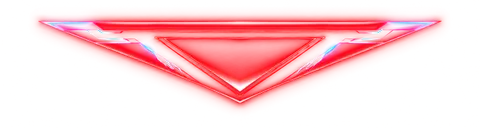
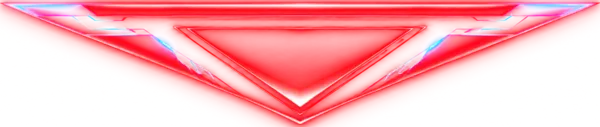
Configuración: triángulos pegados encima y debajo del recuadro del número (forma de hexágono)
Claude-Session: https://claude.ai/code/session_01HLPxK9qZeEMjrG2vSjnaLY

diff --git a/src/styles/screens.css b/src/styles/screens.css
@@ -1832,39 +1832,30 @@
 }
 
 /* ---------- Configuración: tarjetas de goles y tiempo ---------- */
-/* Ocupan todo el alto libre. ▲ arriba, número en medio (toca para activar/desactivar) y ▼ abajo.
-   La tarjeta activa se resalta con borde y brillo; la inactiva queda apagada. */
+/* Cada columna: triángulo ▲ a ras del borde superior del recuadro, recuadro con el número
+   (tocar = activar/desactivar) y triángulo ▼ a ras del borde inferior. La activa brilla; la otra se apaga. */
 .setup-conditions {
   flex: 1;
   min-height: 0;
+  column-gap: 28px;
+  padding: 0 12px;
 }
-.cond-card {
+.cond {
   display: flex;
   flex-direction: column;
-  align-items: stretch;
   min-height: 0;
-  padding: 8px 12px 10px;
-  gap: 4px;
-  opacity: 0.55;
-  filter: saturate(0.4);
-  transition: opacity 0.2s ease, filter 0.2s ease, border-color 0.2s ease, box-shadow 0.2s ease;
+  opacity: 0.45;
+  filter: saturate(0.35);
+  transition: opacity 0.2s ease, filter 0.2s ease;
 }
-.cond-card.on {
+.cond.on {
   opacity: 1;
   filter: none;
-  border: 2px solid var(--accent);
-  background: linear-gradient(180deg, rgba(47, 184, 236, 0.16), var(--card) 60%);
-  box-shadow: 0 0 24px rgba(47, 184, 236, 0.45), inset 0 0 22px rgba(47, 184, 236, 0.12);
-}
-.cond-title {
-  text-align: center;
-}
-.cond-card.on .cond-title {
-  color: var(--accent);
 }
 .cond-btn {
-  flex: 1;
-  min-height: 52px;
+  position: relative;
+  flex: 0 0 auto;
+  width: 100%;
   border: 0;
   background: transparent;
   padding: 0;
@@ -1873,28 +1864,42 @@
   font-size: 40px;
   font-weight: 800;
 }
+/* Alto según la proporción de la imagen más alta de cada pareja (reposo/pulsado). */
+.cond-btn.up {
+  aspect-ratio: 600 / 146;
+}
+.cond-btn.down {
+  aspect-ratio: 600 / 139;
+}
 .cond-btn:disabled {
   cursor: default;
 }
-.cond-card.on .cond-btn:disabled {
+.cond.on .cond-btn:disabled {
   opacity: 0.3;
 }
 .cond-btn .neon-sign {
-  position: relative;
-  display: block;
-  width: 100%;
-  height: 100%;
+  position: absolute;
+  inset: 0;
 }
 .cond-btn .neon-sign img {
   position: absolute;
-  left: 50%;
-  top: 50%;
-  /* Triángulos alargados: llenan el alto del botón sin pasar del ancho. */
-  height: 110%;
-  width: 92%;
-  object-fit: contain;
-  transform: translate(-50%, -50%);
+  left: 0;
+  width: 100%;
+  height: auto;
   pointer-events: none;
+}
+/* El lado plano de cada triángulo toca el recuadro. */
+.cond-btn.up .neon-sign img {
+  bottom: 0;
+}
+.cond-btn.down .neon-sign img {
+  top: 0;
+}
+.cond.on .cond-btn.up .neon-sign img {
+  filter: drop-shadow(0 0 8px rgba(61, 220, 151, 0.55));
+}
+.cond.on .cond-btn.down .neon-sign img {
+  filter: drop-shadow(0 0 8px rgba(255, 90, 110, 0.55));
 }
 .cond-btn .neon-sign .on {
   opacity: 0;
@@ -1904,35 +1909,44 @@
 }
 .cond-btn:not(:disabled):active .neon-sign .on {
   opacity: 1;
-  transform: translate(-50%, -50%) scale(1.06);
 }
-/* Número grande: toda la zona es el botón de activar/desactivar. */
-.cond-value {
-  flex: 1.6;
+.cond-box {
+  flex: 1;
+  min-height: 0;
   display: flex;
+  flex-direction: column;
   align-items: center;
   justify-content: center;
-  border: 0;
-  background: transparent;
+  gap: 2px;
+  border: 2px solid var(--line);
+  border-radius: 4px;
+  background: var(--card);
   cursor: pointer;
-  padding: 0;
-  min-height: 0;
+  padding: 4px 0;
 }
-.cond-value .num {
-  font-size: 118px;
+.cond.on .cond-box {
+  border-color: var(--accent);
+  background: linear-gradient(180deg, rgba(47, 184, 236, 0.18), var(--card));
+  box-shadow: 0 0 22px rgba(47, 184, 236, 0.45), inset 0 0 22px rgba(47, 184, 236, 0.14);
+}
+.cond.on .cond-title {
+  color: var(--accent);
+}
+.cond-box .num {
+  font-size: 104px;
   font-weight: 900;
   line-height: 0.9;
   letter-spacing: -0.04em;
   font-variant-numeric: tabular-nums;
   color: #9fb3c8;
 }
-.cond-card.on .cond-value .num {
+.cond.on .cond-box .num {
   background: linear-gradient(180deg, #ffffff 15%, #8fe3ff 60%, #2fb8ec);
   -webkit-background-clip: text;
   background-clip: text;
   color: transparent;
   filter: drop-shadow(0 0 14px rgba(47, 184, 236, 0.6));
 }
-.cond-value:active .num {
+.cond-box:active .num {
   transform: scale(0.96);
 }

diff --git a/src/ui/screens/SetupScreen.tsx b/src/ui/screens/SetupScreen.tsx
@@ -16,7 +16,7 @@ function conditionFrom(goals: boolean, time: boolean): EndCondition {
 }
 
 /**
- * Tarjeta de condición: + arriba, número en medio y − abajo.
+ * Tarjeta de condición: triángulo ▲ pegado encima, recuadro con el número y triángulo ▼ pegado debajo.
  * Tocar el número activa o desactiva la tarjeta (decide si el partido es por goles, por tiempo o ambos).
  */
 function ConditionCard({
@@ -41,10 +41,9 @@ function ConditionCard({
   onChange: (v: number) => void;
 }) {
   return (
-    <div className={`card cond-card${active ? ' on' : ''}`} role="group" aria-label={title}>
-      <div className="label cond-title">{title}</div>
+    <div className={`cond${active ? ' on' : ''}`} role="group" aria-label={title}>
       <button
-        className="cond-btn"
+        className="cond-btn up"
         aria-label={`Sumar ${label}`}
         disabled={!active || value >= max}
         onClick={() => onChange(Math.min(max, value + 1))}
@@ -52,15 +51,16 @@ function ConditionCard({
         <NeonSign kind="sumar" fallback="+" />
       </button>
       <button
-        className="cond-value"
+        className="cond-box"
         aria-pressed={active}
-        aria-label={`${value} ${unit}. ${active ? 'Toca para desactivar' : 'Toca para activar'}`}
+        aria-label={`${title}: ${value} ${unit}. ${active ? 'Toca para desactivar' : 'Toca para activar'}`}
         onClick={onToggle}
       >
+        <span className="label cond-title">{title}</span>
         <span className="num" aria-live="polite">{value}</span>
       </button>
       <button
-        className="cond-btn"
+        className="cond-btn down"
         aria-label={`Restar ${label}`}
         disabled={!active || value <= min}
         onClick={() => onChange(Math.max(min, value - 1))}

diff --git a/src/assets/images/LEEME.md b/src/assets/images/LEEME.md
@@ -13,7 +13,8 @@ no hay que tocar código. Si falta una imagen se usa el diseño de respaldo actu
   `tarjeta-rapido-off/on` (robot), `tarjeta-caos-off/on` (ardilla y caracol) y
   `tarjeta-clasificatorio-off/on` (copa), 640 px de ancho, vertical.
 - Botones − y + de la configuración del partido: triángulos neón con dos estados (`-off` en reposo, `-on` al pulsar):
-  `boton-sumar-off/on` (verde, hacia arriba) y `boton-restar-off/on` (rojo, hacia abajo), 480×128 .webp con fondo transparente.
+  `boton-sumar-off/on` (verde, hacia arriba) y `boton-restar-off/on` (rojo, hacia abajo), 600 px de ancho, .webp
+  transparente y recortados justo al borde del triángulo para que encajen a ras del recuadro.
 - Pendientes (llegaron dañadas en el ZIP; mientras, se ve el icono de respaldo):
   - `categoria-diamond` (archivo vacío).
   - Fila inferior de `plantilla-logros-03` (imagen cortada): `logro-hat_trick`, `logro-scorer50`,
